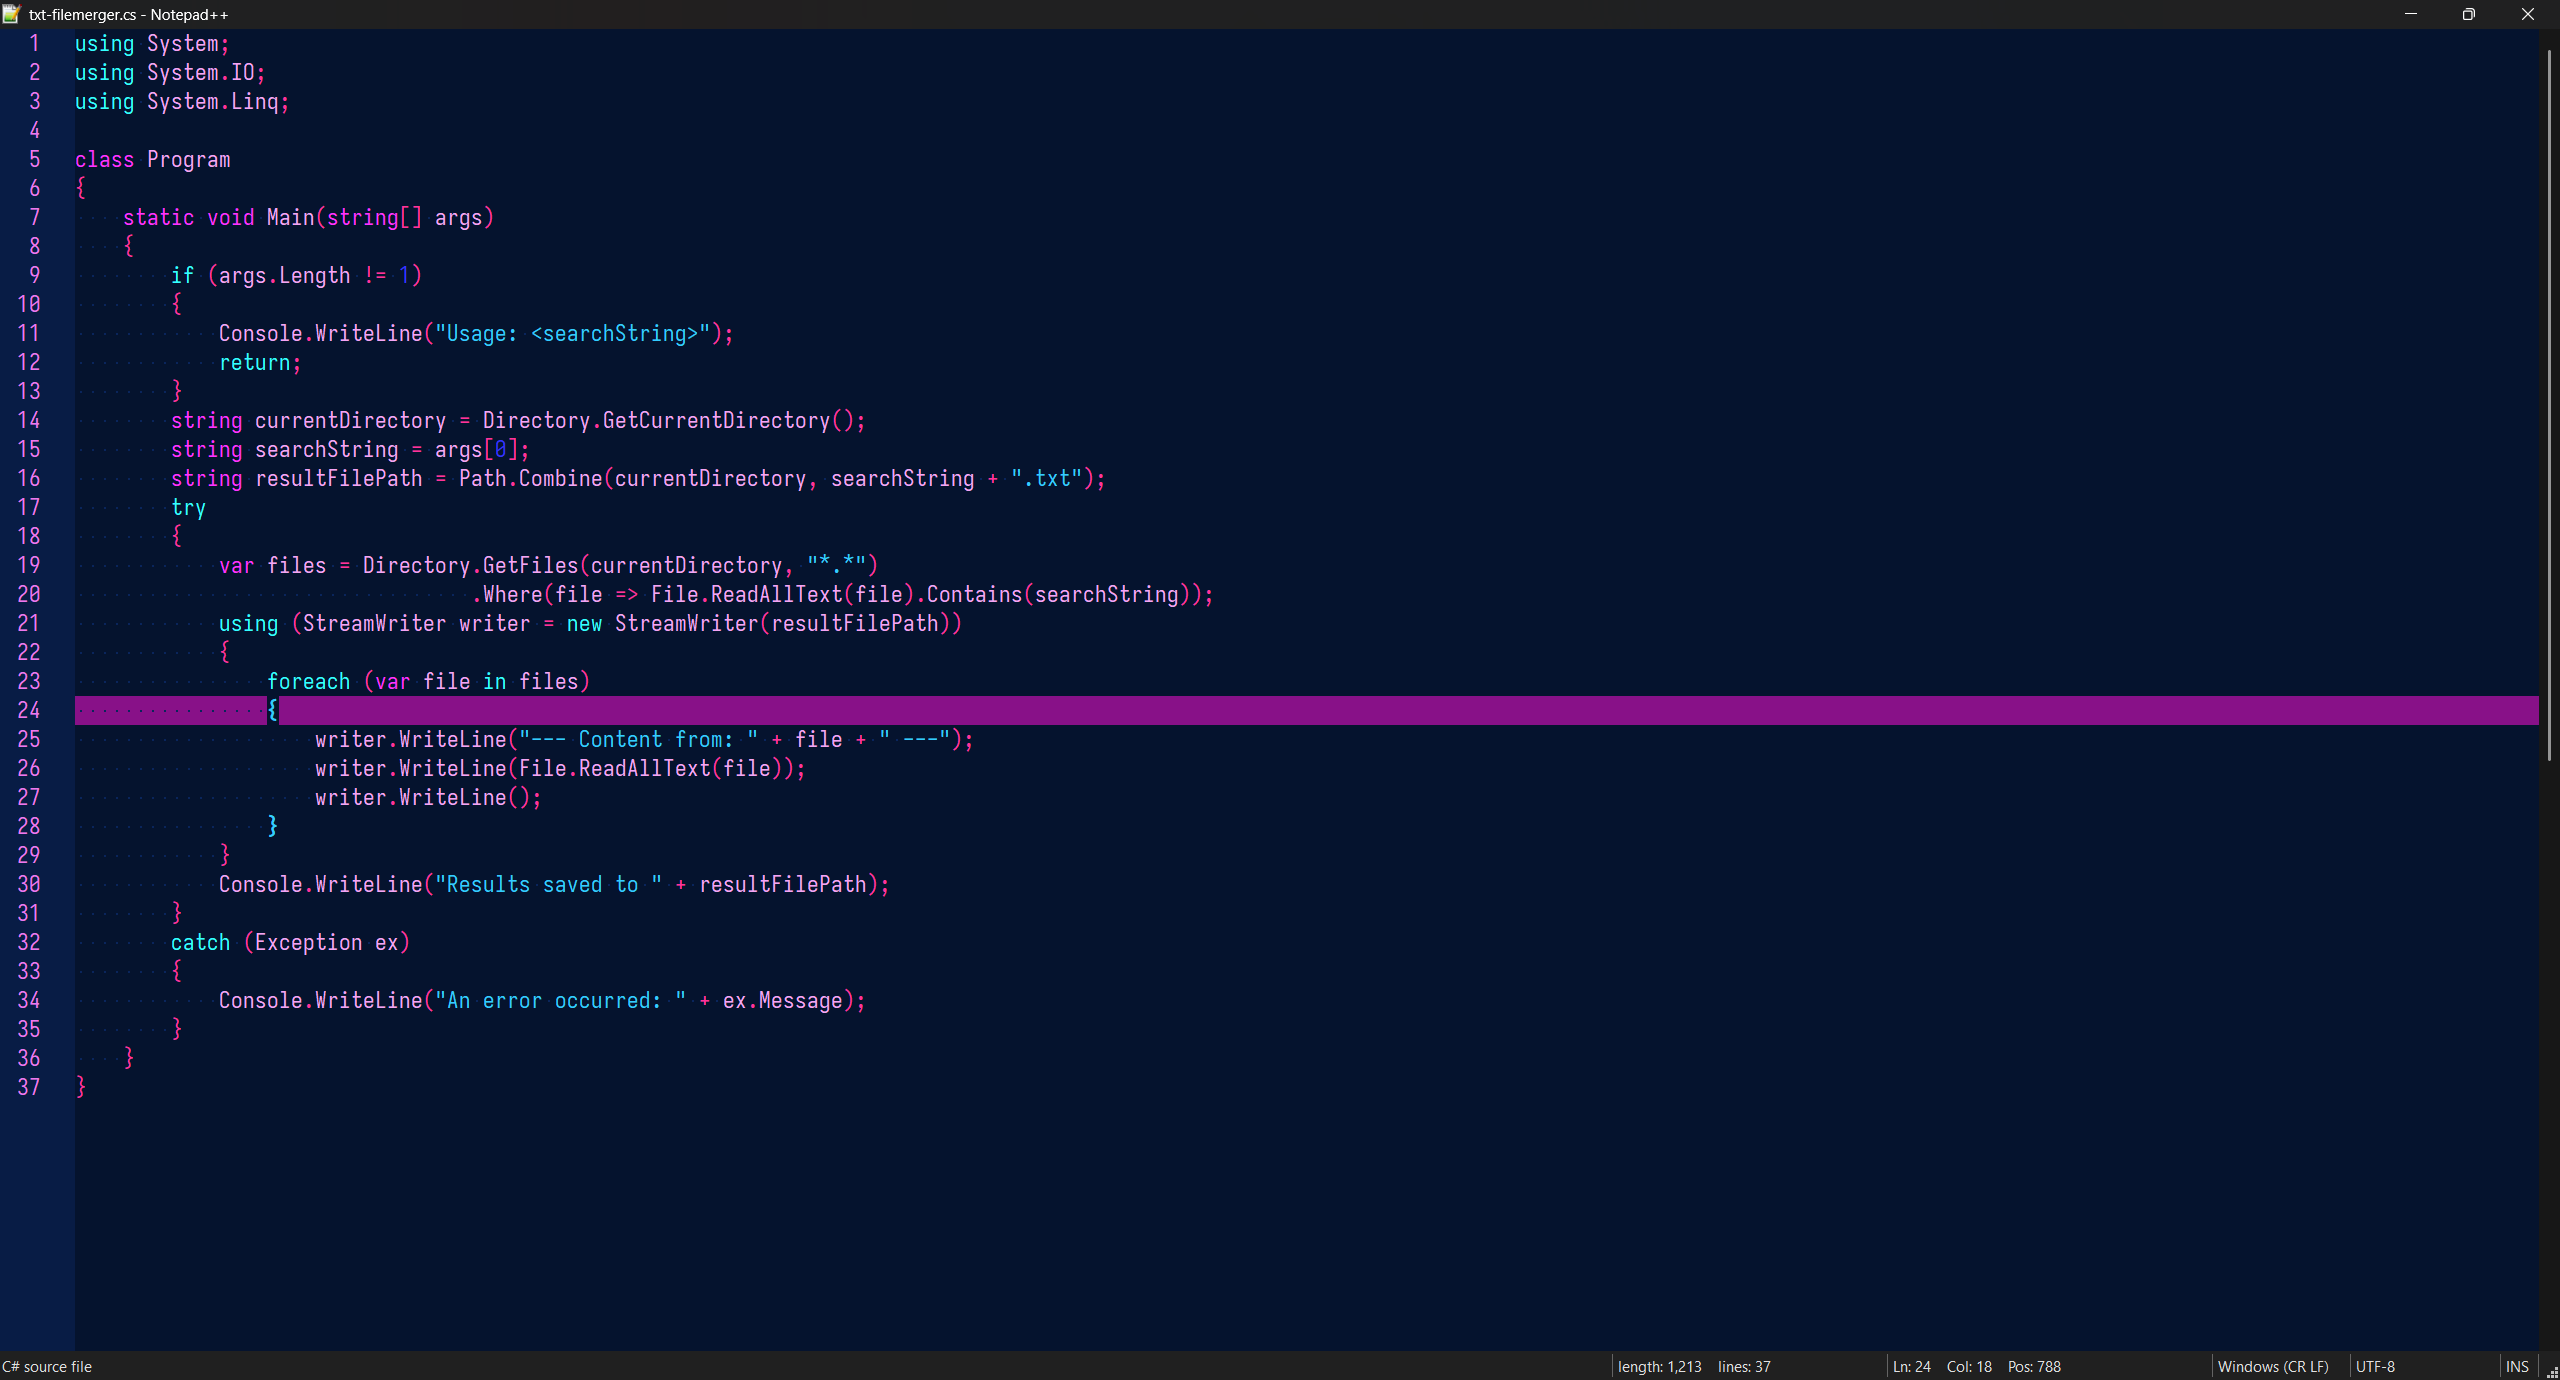
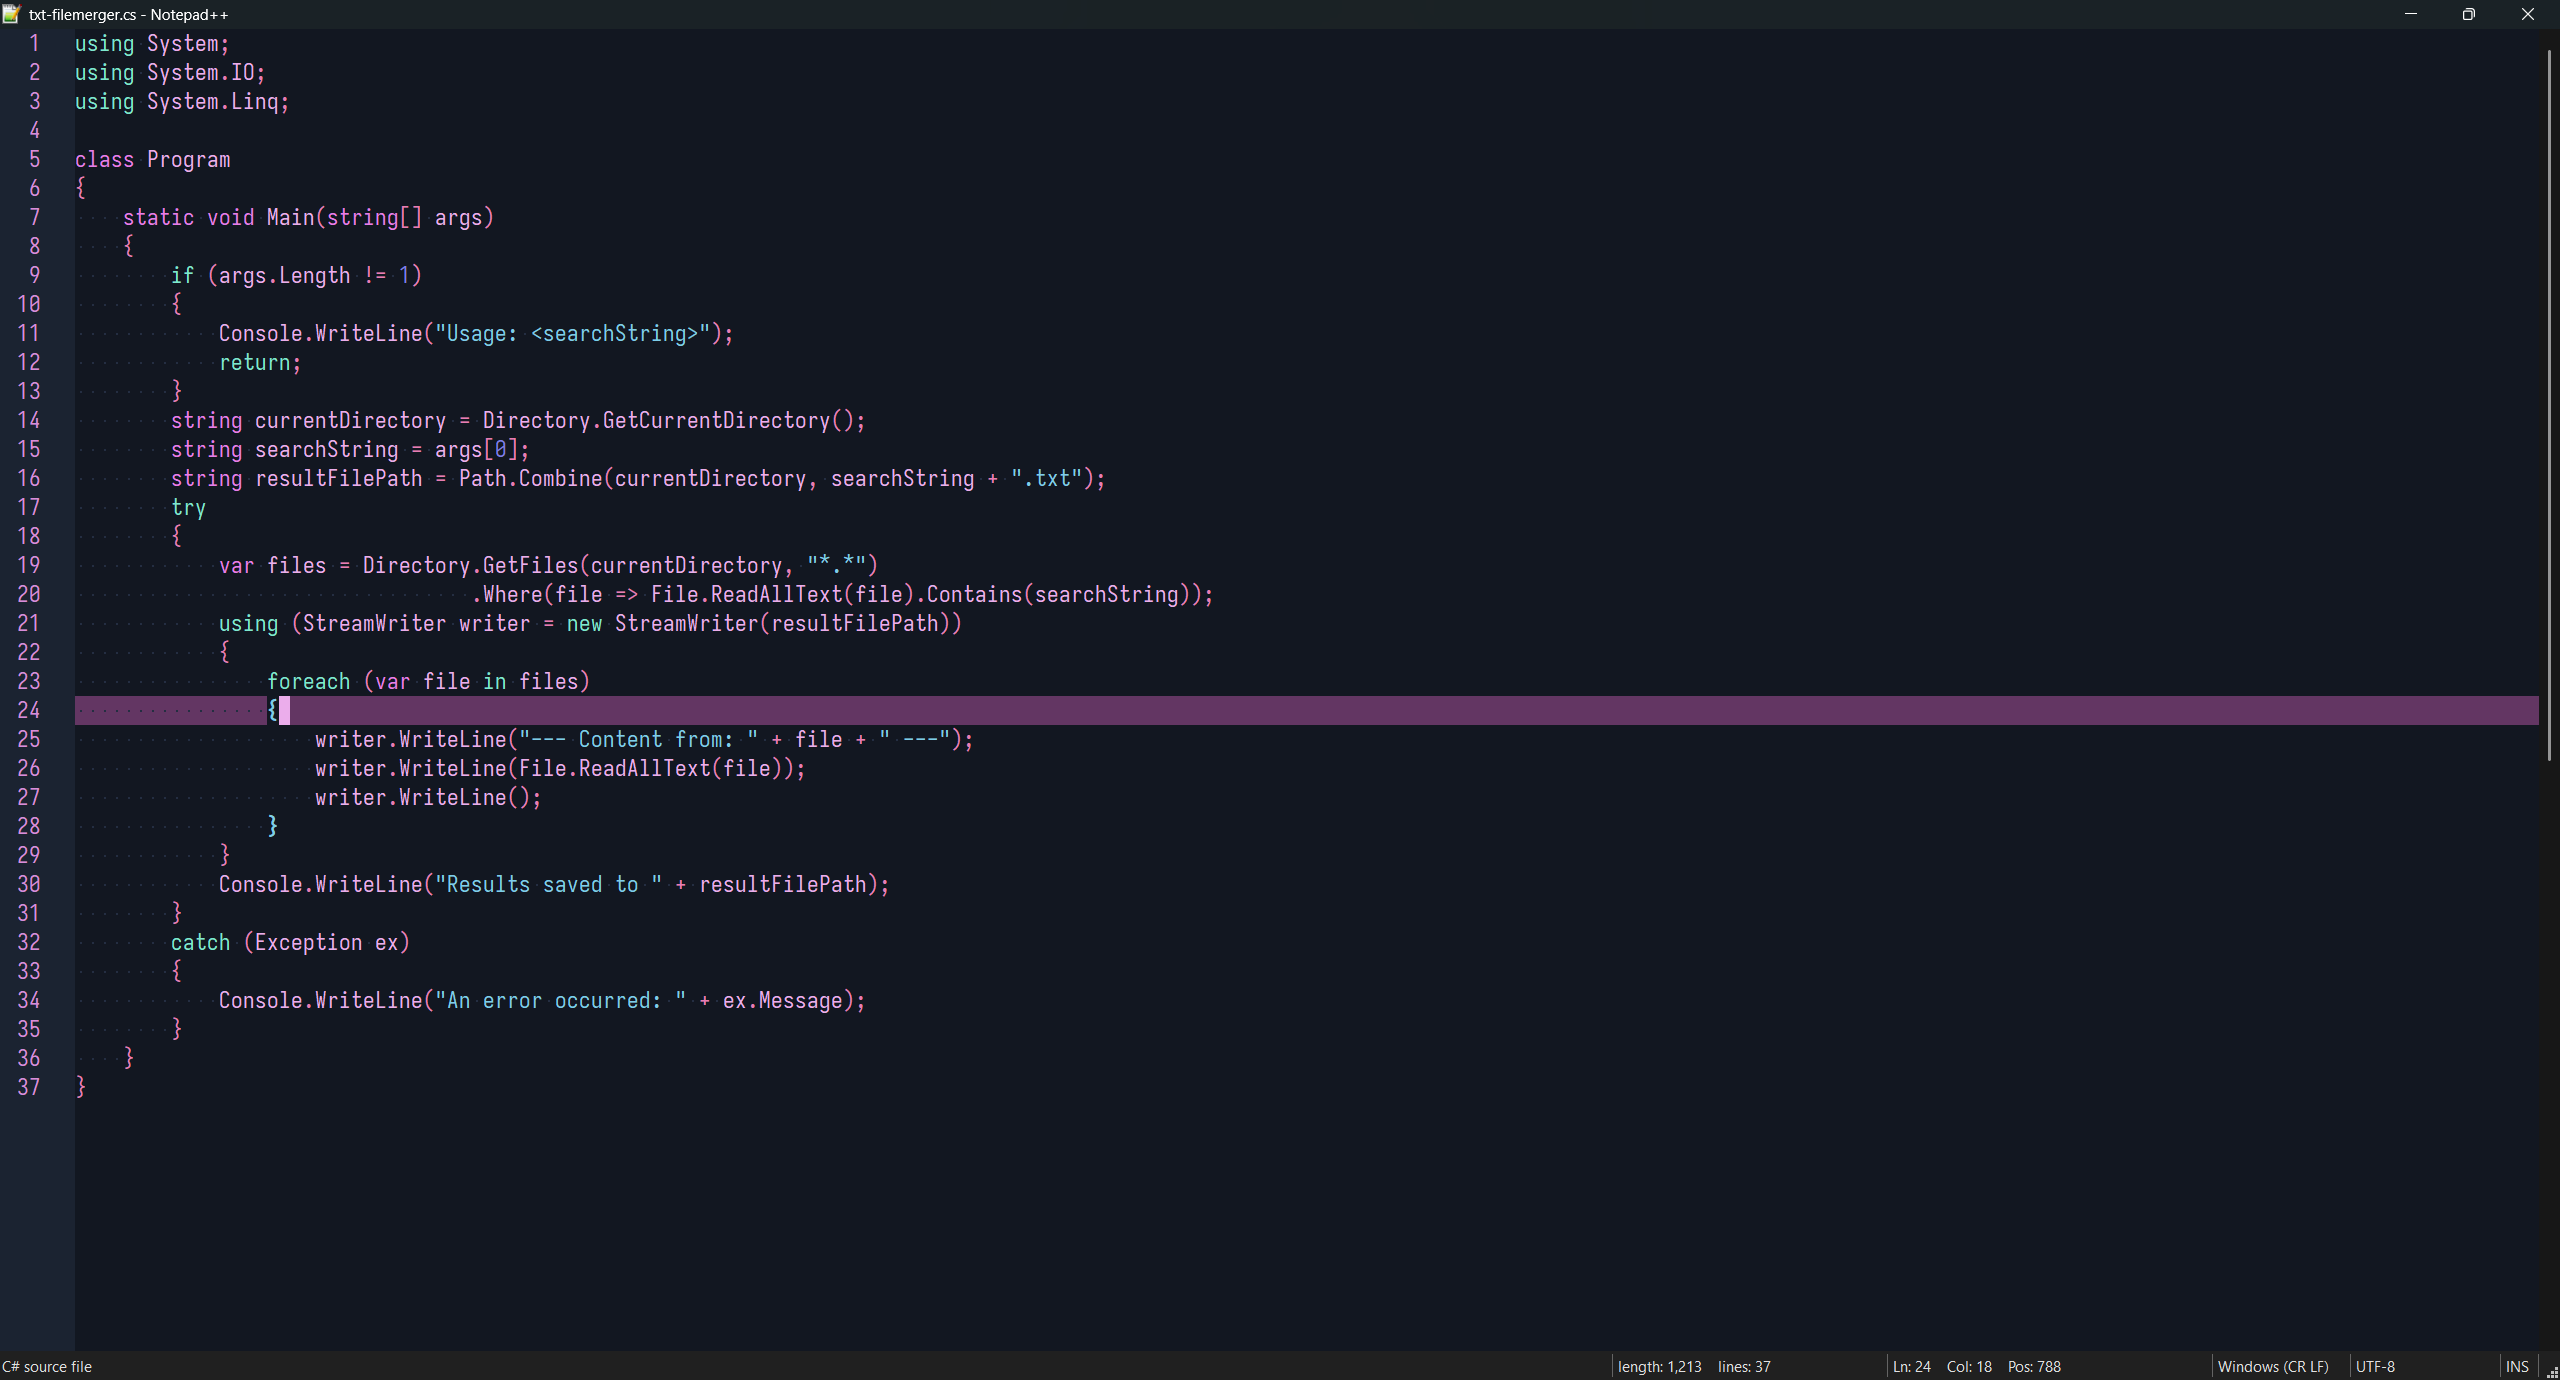
update cyberpunk, vulcano and pastel-sky themes

diff --git a/scheme_files/other/cyberpunk.html b/scheme_files/other/cyberpunk.html
@@ -26,49 +26,49 @@ this template is meant as a reference sheet for your color theme
 			</tr>
 			<tr>
 				<td>Background - 1st level<br><a>UI: default text bg</a></td>
-				<td>#05132e</td>
-				<td style="background-color:#05132e;"></td>
+				<td>#121721</td>
+				<td style="background-color:#121721;"></td>
 			</tr>
 			<tr>
 				<td>Background - 2nd level<br><a>UI: inactive tab or file bg, 2nd level surfaces bg</a></td>
-				<td>#081c45</td>
-				<td style="background-color:#081c45;"></td>
+				<td>#1b2331</td>
+				<td style="background-color:#1b2331;"></td>
 			</tr>
 			<tr>
 				<td>Background - 3rd level<br><a>UI: separators, other bg symbols</a></td>
-				<td>#0a255c</td>
-				<td style="background-color:#0a255c;"></td>
+				<td>#242e42</td>
+				<td style="background-color:#242e42;"></td>
 			</tr>
 			<tr>
 				<td>Foreground - 1st level<br><a>UI: cursor
                 <br>SYNTAX: default text</a></td>
-				<td>#f4a4f4</td>
-				<td style="background-color:#f4a4f4;"></td>
+				<td>#ebadeb</td>
+				<td style="background-color:#ebadeb;"></td>
 			</tr>
 			<tr>
 				<td>Foreground - 2nd level<br><a>UI: 2nd level surfaces fg, inactive tab or file fg</td>
-				<td>#ee77ee</td>
-				<td style="background-color:#ee77ee;"></td>
+				<td>#d98cd9</td>
+				<td style="background-color:#d98cd9;"></td>
 			</tr>
 			<tr>
 				<td>Foreground - 3rd level<br><a>UI: fold, line numbers<br>SYNTAX: comments</a></td>
-				<td>#e949e9</td>
-				<td style="background-color:#e949e9;"></td>
+				<td>#c270c2</td>
+				<td style="background-color:#c270c2;"></td>
 			</tr>
 			<tr>
 				<td>Highlight - 1st level<br><a>UI: alternative marks</a></td>
-				<td>#e31ce3</td>
-				<td style="background-color:#e31ce3;"></td>
+				<td>#a45ba4</td>
+				<td style="background-color:#a45ba4;"></td>
 			</tr>	
 			<tr>
 				<td>Highlight - 2nd level<br><a>UI: selection, search marks, fold marks</a></td>
-				<td>#b616b6</td>
-				<td style="background-color:#b616b6;"></td>
+				<td>#844884</td>
+				<td style="background-color:#844884;"></td>
 			</tr>	
 			<tr>
 				<td>Highlight - 3rd level<br><a>UI: current line</a></td>
-				<td>#881188</td>
-				<td style="background-color:#881188;"></td>
+				<td>#633663</td>
+				<td style="background-color:#633663;"></td>
 			</tr>
 		</table>
 		<br>
@@ -83,35 +83,35 @@ this template is meant as a reference sheet for your color theme
 			<tr>
 				<td>syntax 1<br><a>UI: change history modified, alert, error
                 <br>SYNTAX: macro, methods, functions, symbols (question mark, shebang, etc.)<br>TERMINAL: red</a></td>
-				<td>#ad33ff</td>
-				<td style="background-color:#ad33ff;"></td>
+				<td>#b37de8</td>
+				<td style="background-color:#b37de8;"></td>
 			</tr>
 			<tr>
 				<td>syntax 2<br><a>UI: change history revert origin, change history revert modified, warnings
                 <br>SYNTAX: strings, char, regex, verbatim<br>TERMINAL: yellow</a></td>
-				<td>#33ccff</td>
-				<td style="background-color:#33ccff;"></td>
+				<td>#7dcde8</td>
+				<td style="background-color:#7dcde8;"></td>
 			</tr>
 			<tr>
 				<td>syntax 3<br><a>SYNTAX: opertors, variables, identifiers<br>TERMINAL: cyan</a></td>
-				<td>#ff3399</td>
-				<td style="background-color:#ff3399;"></td>
+				<td>#e87db3</td>
+				<td style="background-color:#e87db3;"></td>
 			</tr>
 			<tr>
 				<td>syntax 4<br><a>UI: change history saved
                 <br>SYNTAX: conditionals, keywords, tags, commands, instructions<br>TERMINAL: green</a></td>
-				<td>#33ffff</td>
-				<td style="background-color:#33ffff;"></td>
+				<td>#7de8cd</td>
+				<td style="background-color:#7de8cd;"></td>
 			</tr>
 			<tr>
 				<td>syntax 5<br><a>SYNTAX: keys, types, class, groups, sections, preprocessor<br>TERMINAL: blue</a></td>
-				<td>#ff33ff</td>
-				<td style="background-color:#ff33ff;"></td>
+				<td>#e87de8</td>
+				<td style="background-color:#e87de8;"></td>
 			</tr>
 			<tr>
 				<td>syntax 6<br><a>SYNTAX: qualifier, numbers, booleans, attributes<br>TERMINAL: magenta (purple)</a></td>
-				<td>#3333ff</td>
-				<td style="background-color:#3333ff;"></td>
+				<td>#7d7de8</td>
+				<td style="background-color:#7d7de8;"></td>
 			</tr>
 		</table>
 		<br>

diff --git a/scheme_files/other/pastel-sky-dark.html b/scheme_files/other/pastel-sky-dark.html
@@ -26,49 +26,49 @@ this template is meant as a reference sheet for your color theme
 			</tr>
 			<tr>
 				<td>Background - 1st level<br><a>UI: default text bg</a></td>
-				<td>#221934</td>
-				<td style="background-color:#221934;"></td>
+				<td>#24212c</td>
+				<td style="background-color:#24212c;"></td>
 			</tr>
 			<tr>
 				<td>Background - 2nd level<br><a>UI: inactive tab or file bg, 2nd level surfaces bg</a></td>
-				<td>#2d2145</td>
-				<td style="background-color:#2d2145;"></td>
+				<td>#302c3a</td>
+				<td style="background-color:#302c3a;"></td>
 			</tr>
 			<tr>
 				<td>Background - 3rd level<br><a>UI: separators, other bg symbols</a></td>
-				<td>#382956</td>
-				<td style="background-color:#382956;"></td>
+				<td>#3c3749</td>
+				<td style="background-color:#3c3749;"></td>
 			</tr>
 			<tr>
 				<td>Foreground - 1st level<br><a>UI: cursor
                 <br>SYNTAX: default text</a></td>
-				<td>#ddddee</td>
-				<td style="background-color:#ddddee;"></td>
+				<td>#c2c2f0</td>
+				<td style="background-color:#c2c2f0;"></td>
 			</tr>
 			<tr>
 				<td>Foreground - 2nd level<br><a>UI: 2nd level surfaces fg, inactive tab or file fg</td>
-				<td>#bbbbdd</td>
-				<td style="background-color:#bbbbdd;"></td>
+				<td>#9f9fdf</td>
+				<td style="background-color:#9f9fdf;"></td>
 			</tr>
 			<tr>
 				<td>Foreground - 3rd level<br><a>UI: fold, line numbers<br>SYNTAX: comments</a></td>
-				<td>#9999cc</td>
-				<td style="background-color:#9999cc;"></td>
+				<td>#8282c9</td>
+				<td style="background-color:#8282c9;"></td>
 			</tr>
 			<tr>
 				<td>Highlight - 1st level<br><a>UI: alternative marks</a></td>
-				<td>#7f64b4</td>
-				<td style="background-color:#7f64b4;"></td>
+				<td>#857c9c</td>
+				<td style="background-color:#857c9c;"></td>
 			</tr>	
 			<tr>
 				<td>Highlight - 2nd level<br><a>UI: selection, search marks, fold marks</a></td>
-				<td>#654b9b</td>
-				<td style="background-color:#654b9b;"></td>
+				<td>#6b6383</td>
+				<td style="background-color:#6b6383;"></td>
 			</tr>	
 			<tr>
 				<td>Highlight - 3rd level<br><a>UI: current line</a></td>
-				<td>#4f3a78</td>
-				<td style="background-color:#4f3a78;"></td>
+				<td>#534d66</td>
+				<td style="background-color:#534d66;"></td>
 			</tr>
 		</table>
 		<br>

diff --git a/scheme_files/other/vulcano.html b/scheme_files/other/vulcano.html
@@ -42,33 +42,33 @@ this template is meant as a reference sheet for your color theme
 			<tr>
 				<td>Foreground - 1st level<br><a>UI: cursor
                 <br>SYNTAX: default text</a></td>
-				<td>#ffcc99</td>
-				<td style="background-color:#ffcc99;"></td>
+				<td>#eacdae</td>
+				<td style="background-color:#eacdae;"></td>
 			</tr>
 			<tr>
 				<td>Foreground - 2nd level<br><a>UI: 2nd level surfaces fg, inactive tab or file fg</td>
-				<td>#ffb366</td>
-				<td style="background-color:#ffb366;"></td>
+				<td>#e0b485</td>
+				<td style="background-color:#e0b485;"></td>
 			</tr>
 			<tr>
 				<td>Foreground - 3rd level<br><a>UI: fold, line numbers<br>SYNTAX: comments</a></td>
-				<td>#ff9933</td>
-				<td style="background-color:#ff9933;"></td>
+				<td>#d59b5d</td>
+				<td style="background-color:#d59b5d;"></td>
 			</tr>
 			<tr>
 				<td>Highlight - 1st level<br><a>UI: alternative marks</a></td>
-				<td>#ed8012</td>
-				<td style="background-color:#ed8012;"></td>
+				<td>#cb8234</td>
+				<td style="background-color:#cb8234;"></td>
 			</tr>	
 			<tr>
 				<td>Highlight - 2nd level<br><a>UI: selection, search marks, fold marks</a></td>
-				<td>#be660e</td>
-				<td style="background-color:#be660e;"></td>
+				<td>#a2682a</td>
+				<td style="background-color:#a2682a;"></td>
 			</tr>	
 			<tr>
 				<td>Highlight - 3rd level<br><a>UI: current line</a></td>
-				<td>#8e4d0b</td>
-				<td style="background-color:#8e4d0b;"></td>
+				<td>#7a4e1f</td>
+				<td style="background-color:#7a4e1f;"></td>
 			</tr>
 		</table>
 		<br>
